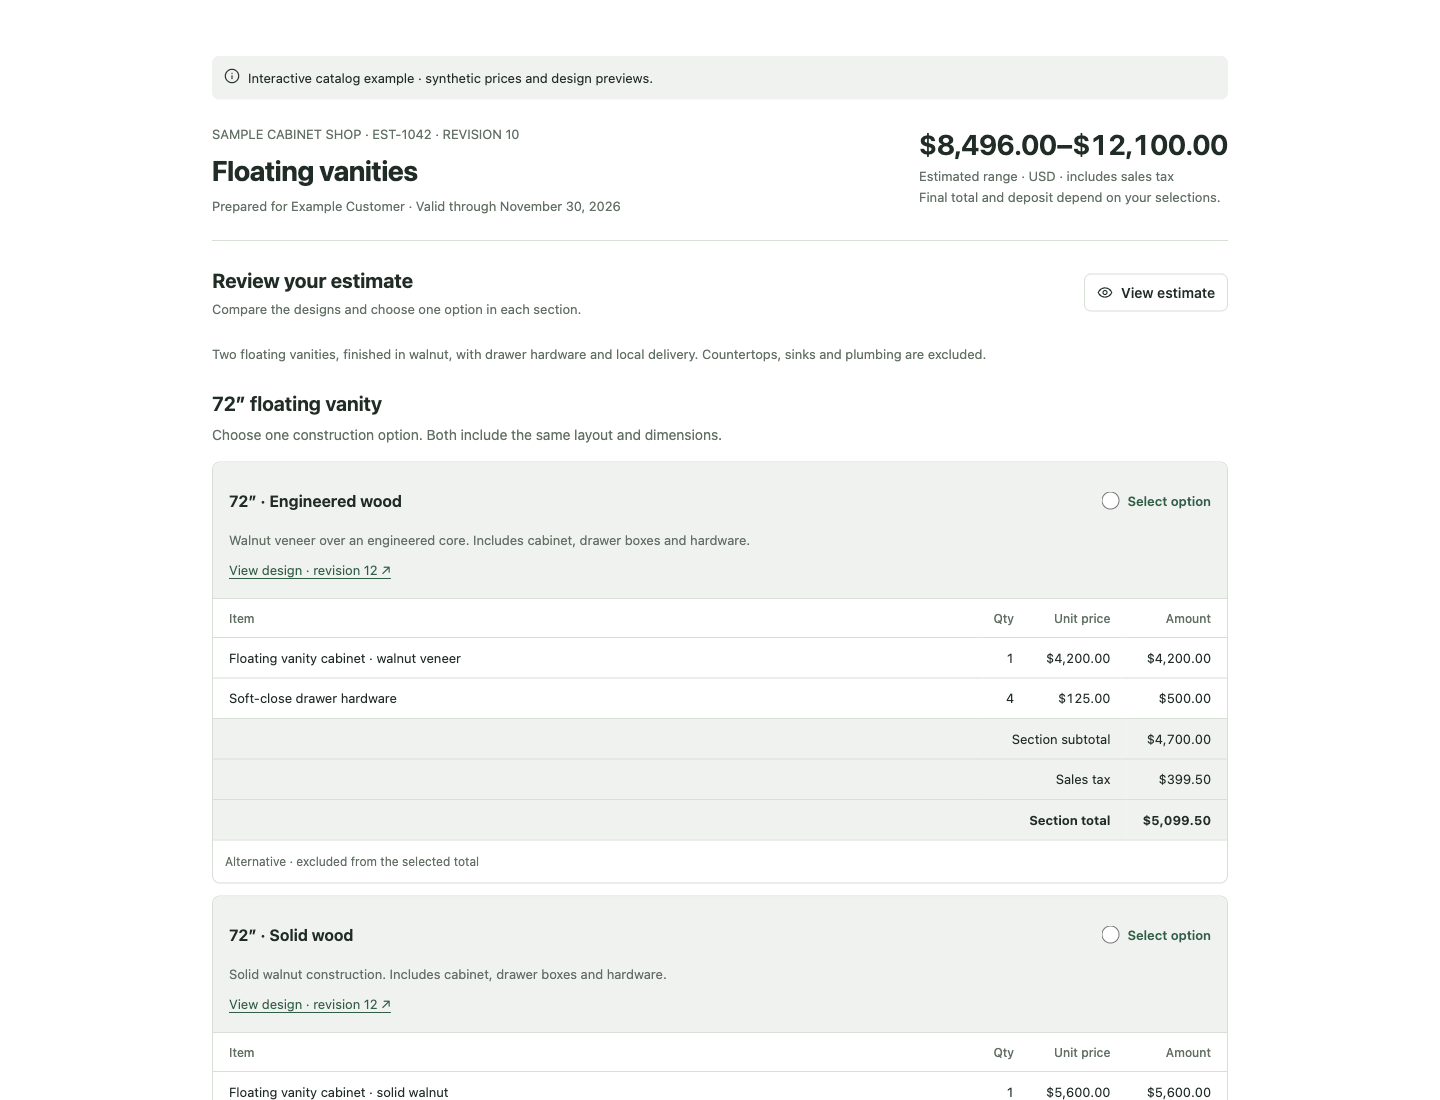
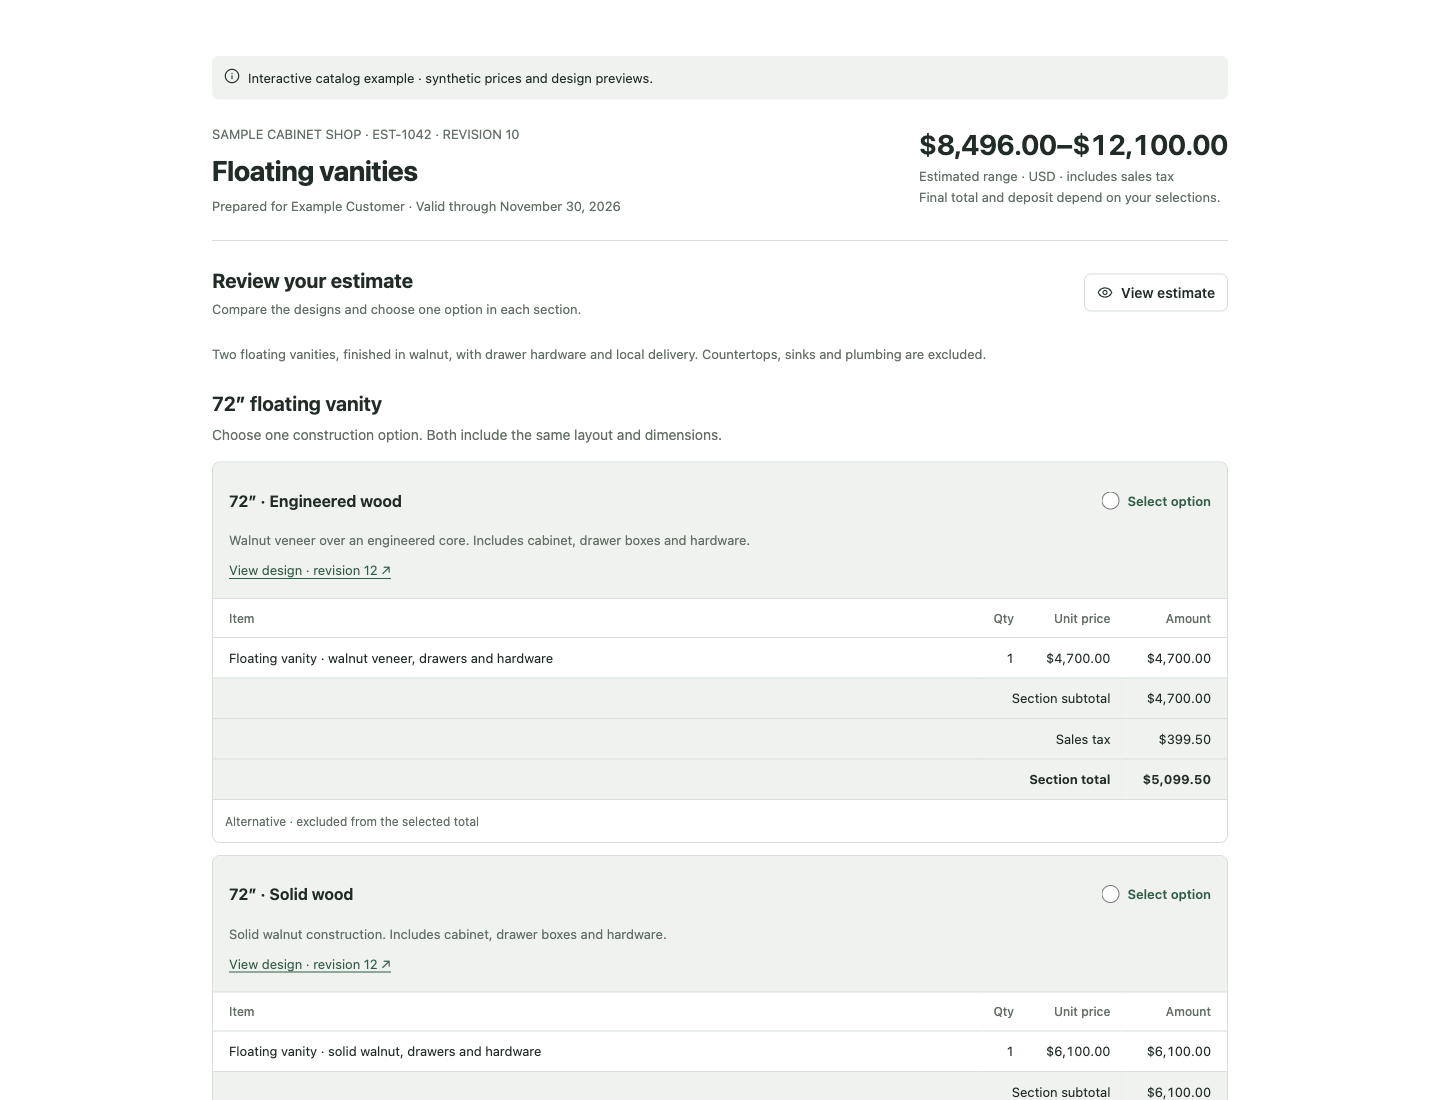
Bundle sample cabinet hardware and version confirmed components at 0.11.0

diff --git a/apps/catalog/src/EstimateOptionsPrototype.tsx b/apps/catalog/src/EstimateOptionsPrototype.tsx
@@ -53,16 +53,9 @@ export const estimateChoices: Choice[] = [
         items: [
           {
             id: "cabinet",
-            description: "Floating vanity cabinet · walnut veneer",
+            description: "Floating vanity · walnut veneer, drawers and hardware",
             quantity: 1,
-            price: 420000,
-            taxable: true,
-          },
-          {
-            id: "hardware",
-            description: "Soft-close drawer hardware",
-            quantity: 4,
-            price: 12500,
+            price: 470000,
             taxable: true,
           },
         ],
@@ -76,16 +69,9 @@ export const estimateChoices: Choice[] = [
         items: [
           {
             id: "cabinet",
-            description: "Floating vanity cabinet · solid walnut",
+            description: "Floating vanity · solid walnut, drawers and hardware",
             quantity: 1,
-            price: 560000,
-            taxable: true,
-          },
-          {
-            id: "hardware",
-            description: "Soft-close drawer hardware",
-            quantity: 4,
-            price: 12500,
+            price: 610000,
             taxable: true,
           },
         ],

diff --git a/docs/estimate-options.md b/docs/estimate-options.md
@@ -1,6 +1,6 @@
 # Customer estimate sections and choices
 
-Catalog review only. Open `#estimate-options` in the catalog or `?example=estimate-options#estimate-options` for the full-size example. All amounts and design previews use synthetic fixtures.
+Catalog behavior confirmed by the user on November 7, 2026; Cabinitron adoption remains a separate review. Open `#estimate-options` in the catalog or `?example=estimate-options#estimate-options` for the full-size example. All amounts and design previews use synthetic fixtures. Cabinet rows include drawers and hardware; internal hardware components are not separate customer charges. The application must render actual estimate lines without inventing component-level line items.
 
 The customer sees each alternative as a table with its title, description, design link and selection control in the header. Item, quantity, unit price and amount stay aligned. The footer shows the section subtotal, tax and total. A selected option has a checked radio, a “Selected” label and an accent border; unselected alternatives are identified as excluded. The radio group uses native keyboard navigation. Read-only mode replaces controls with selected/excluded labels; disabled mode prevents selection while saving.
 
@@ -14,7 +14,7 @@ The initial heading shows the lowest to highest valid total, including shared se
 
 `DocumentChoiceGroup` provides a fieldset, legend, description and consistent section spacing. The app supplies the choices and decides which groups are active.
 
-## Application adoption after behavior confirmation
+## Application adoption
 
 Cabinitron adoption is a separate versioned package change and review. This PR does not alter customer estimates, invoices, issued snapshots, signatures, PDFs or production data.
 
